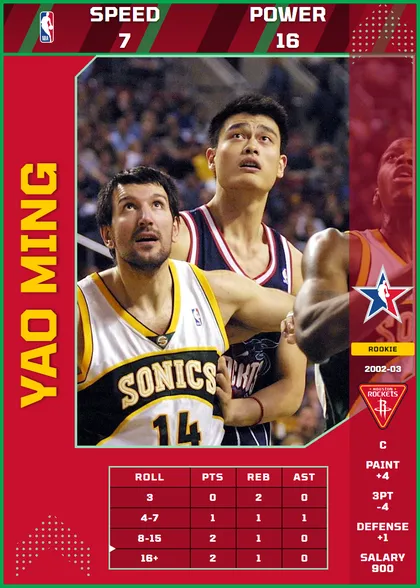
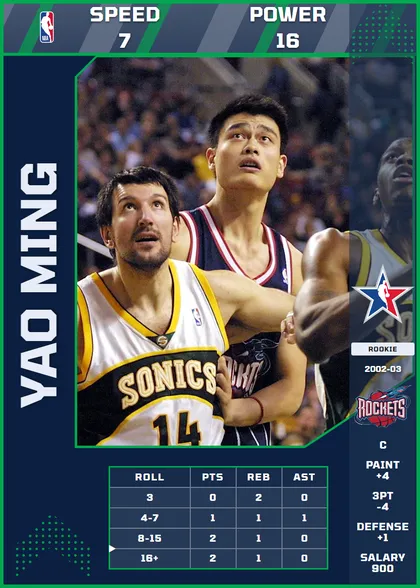
art(teams): HOU95, the Rockets' 1995-2003 pinstripe mark
The era table went from HOU72 (to 1994-95) straight to HOU03 (from
2003-04), so the seasons between fell back to today's mark: Hakeem's
1995-96 Record Breakers card and Yao's 2002-03 rookie card. The logo is
sportslogos.net's 1995/96-2002/03 primary; navy and red sampled from it.
Both cards re-coded to HOU95 and their faces exported (Hakeem's for the
first time; the card stays dormant until the set's faces are exported).

diff --git a/src/cards/teams.js b/src/cards/teams.js
@@ -216,6 +216,14 @@ export const HISTORICAL_TEAMS = {
   // never having been here — logoFiles.test.js asserts the two states are
   // exclusive, so a row with its own era art must not claim one.
   HOU03: { name: 'Rockets',  city: 'Houston',     abbr: 'HOU', primary: '#CE1141', secondary: '#C4CED4', logo: '/logos/HOU03.png', era: '2003-2019' },
+  // THE PINSTRIPE YEARS, 1995-96 TO 2002-03 (2026-10-22; the user: "Need an era
+  // check on record-breakers Hakeem"). The table went from HOU72 straight to
+  // HOU03, so these seasons fell back to today's red-and-yellow mark — Hakeem's
+  // 1995-96 Record Breakers card in a navy pinstripe photo, Yao's rookie card.
+  // The shark rocket round the ball, from sportslogos.net's 1995/96-2002/03
+  // primary; both colours sampled from the file: navy as the jersey Hakeem
+  // wears on his card, the red of the ball.
+  HOU95: { name: 'Rockets',  city: 'Houston',     abbr: 'HOU', primary: '#0B2041', secondary: '#BB2031', logo: '/logos/HOU95.png', era: '1995-2003' },
   // THE 2019 MARK, FROZEN. Every Rockets card outside the base set is a
   // 2022-2025 season, and until now they all read the CURRENT HOU.png — which
   // is about to become the 2026 rebrand. A copy of today's file, so the
@@ -348,7 +356,7 @@ export const FRANCHISE_ERAS = {
     { from: 2013, to: 2014, key: 'CHB13' },
   ],
   DAL: [{ from: 1981, to: 2001, key: 'DAL80' }],
-  HOU: [{ from: 1972, to: 1995, key: 'HOU72' }, { from: 2004, to: 2019, key: 'HOU03' }, { from: 2020, to: 2026, key: 'HOU20' }],
+  HOU: [{ from: 1972, to: 1995, key: 'HOU72' }, { from: 1996, to: 2003, key: 'HOU95' }, { from: 2004, to: 2019, key: 'HOU03' }, { from: 2020, to: 2026, key: 'HOU20' }],
   MIL: [
     { from: 1994, to: 2006, key: 'MIL94' },
     { from: 2007, to: 2015, key: 'MIL06' },
